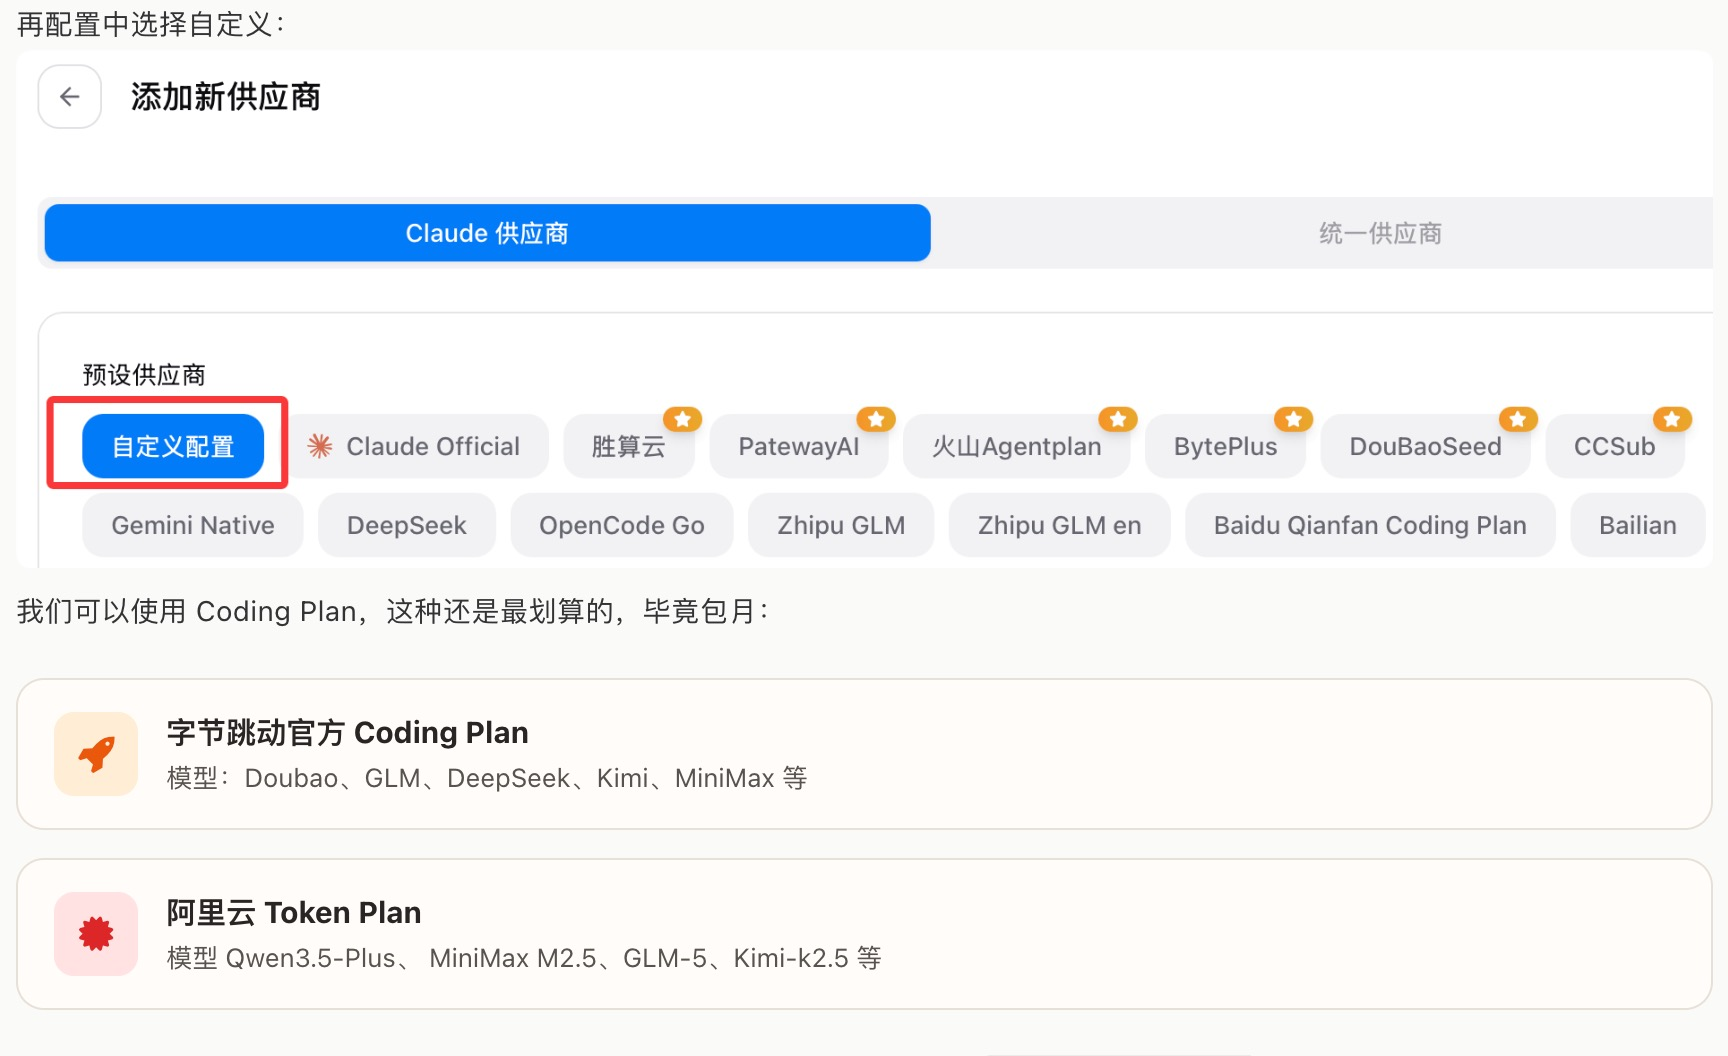
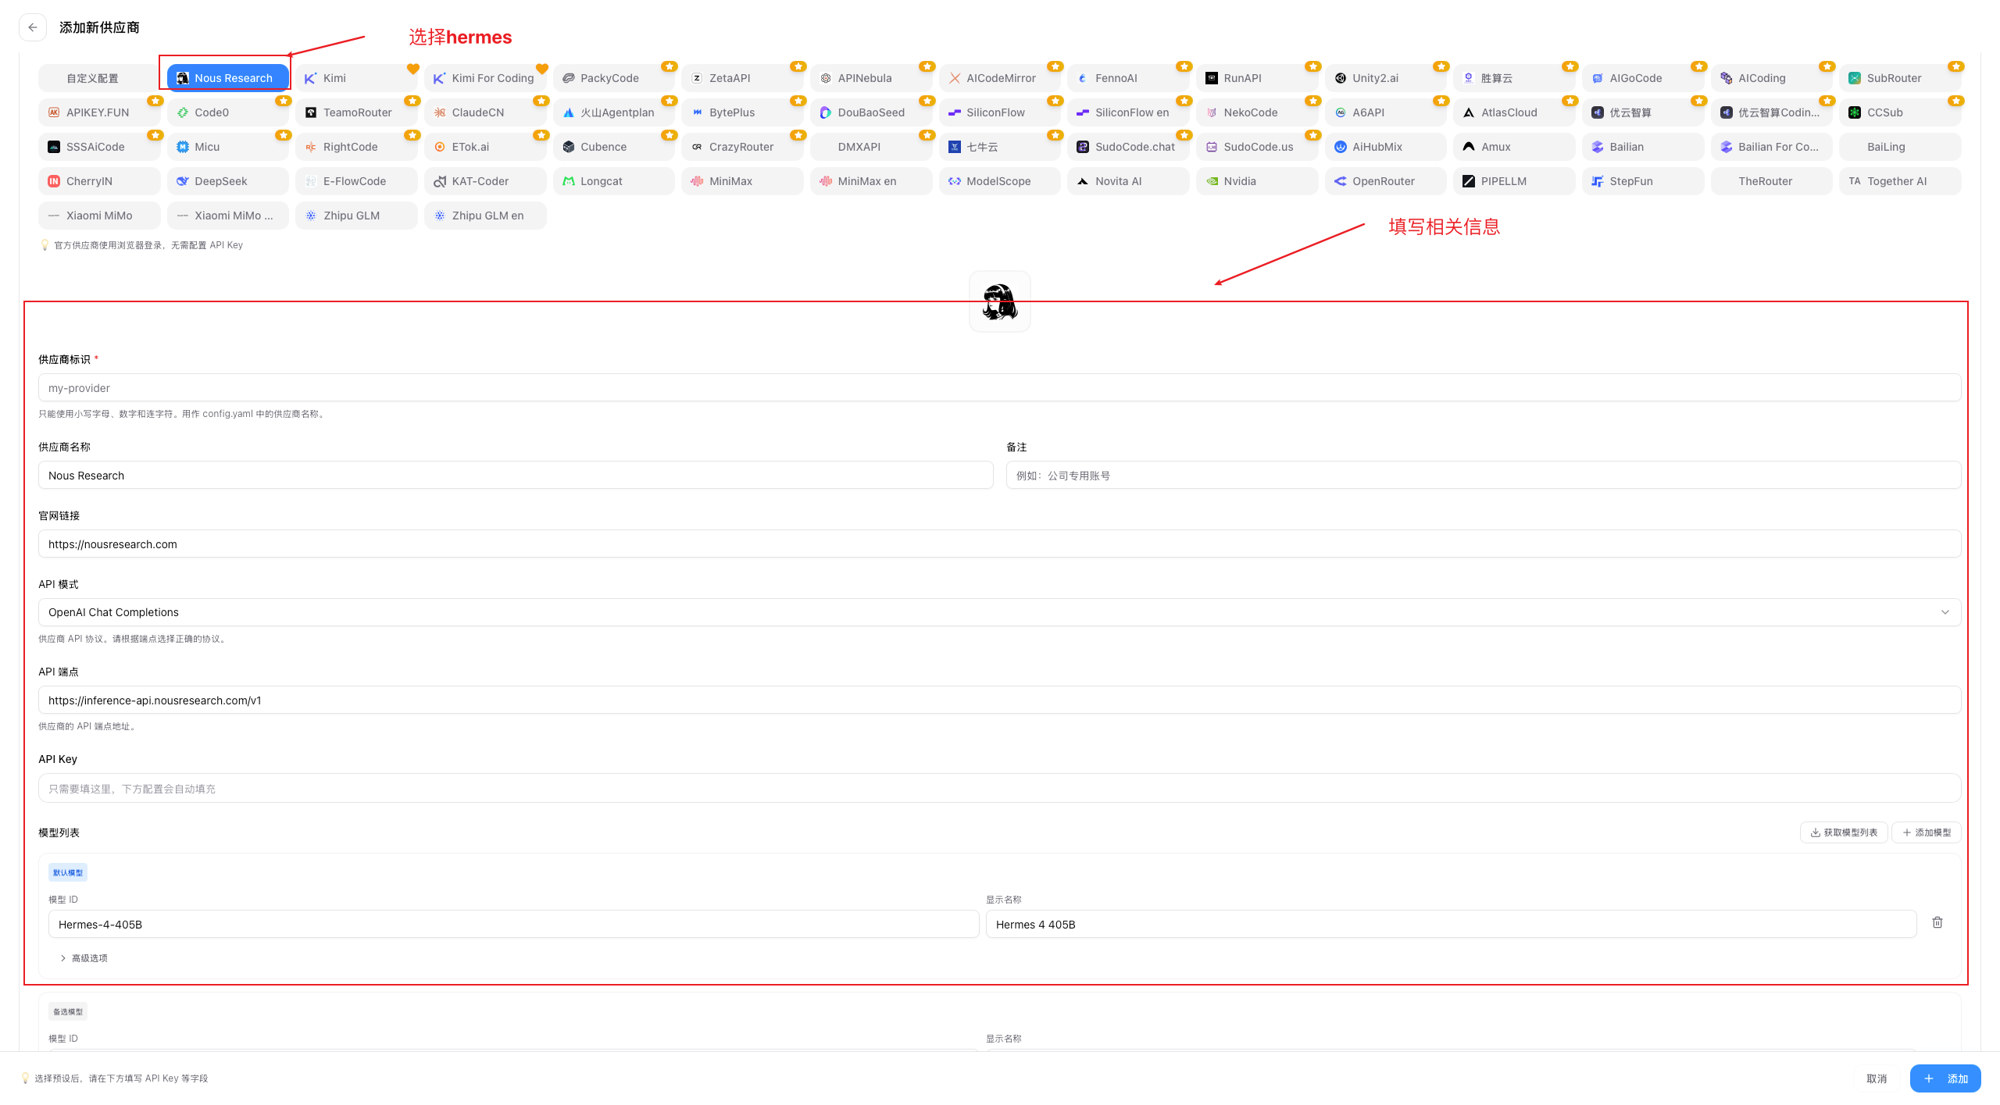
feature-better-doc - 09/08-fix

diff --git a/src/docs/rc_extension/hermes.md b/src/docs/rc_extension/hermes.md
@@ -57,7 +57,7 @@ curl -fsSL https://raw.githubusercontent.com/NousResearch/hermes-agent/main/scri
 
 ![](/assets/image/rc_extension/hermes/hermes-ccs-plus.jpg)
 
-预设供应商里选择 **自定义配置**。
+预设供应商里选择 **Nous Research**（Hermes）。
 
 ![](/assets/image/rc_extension/hermes/hermes-ccs-custom.jpg)
 
